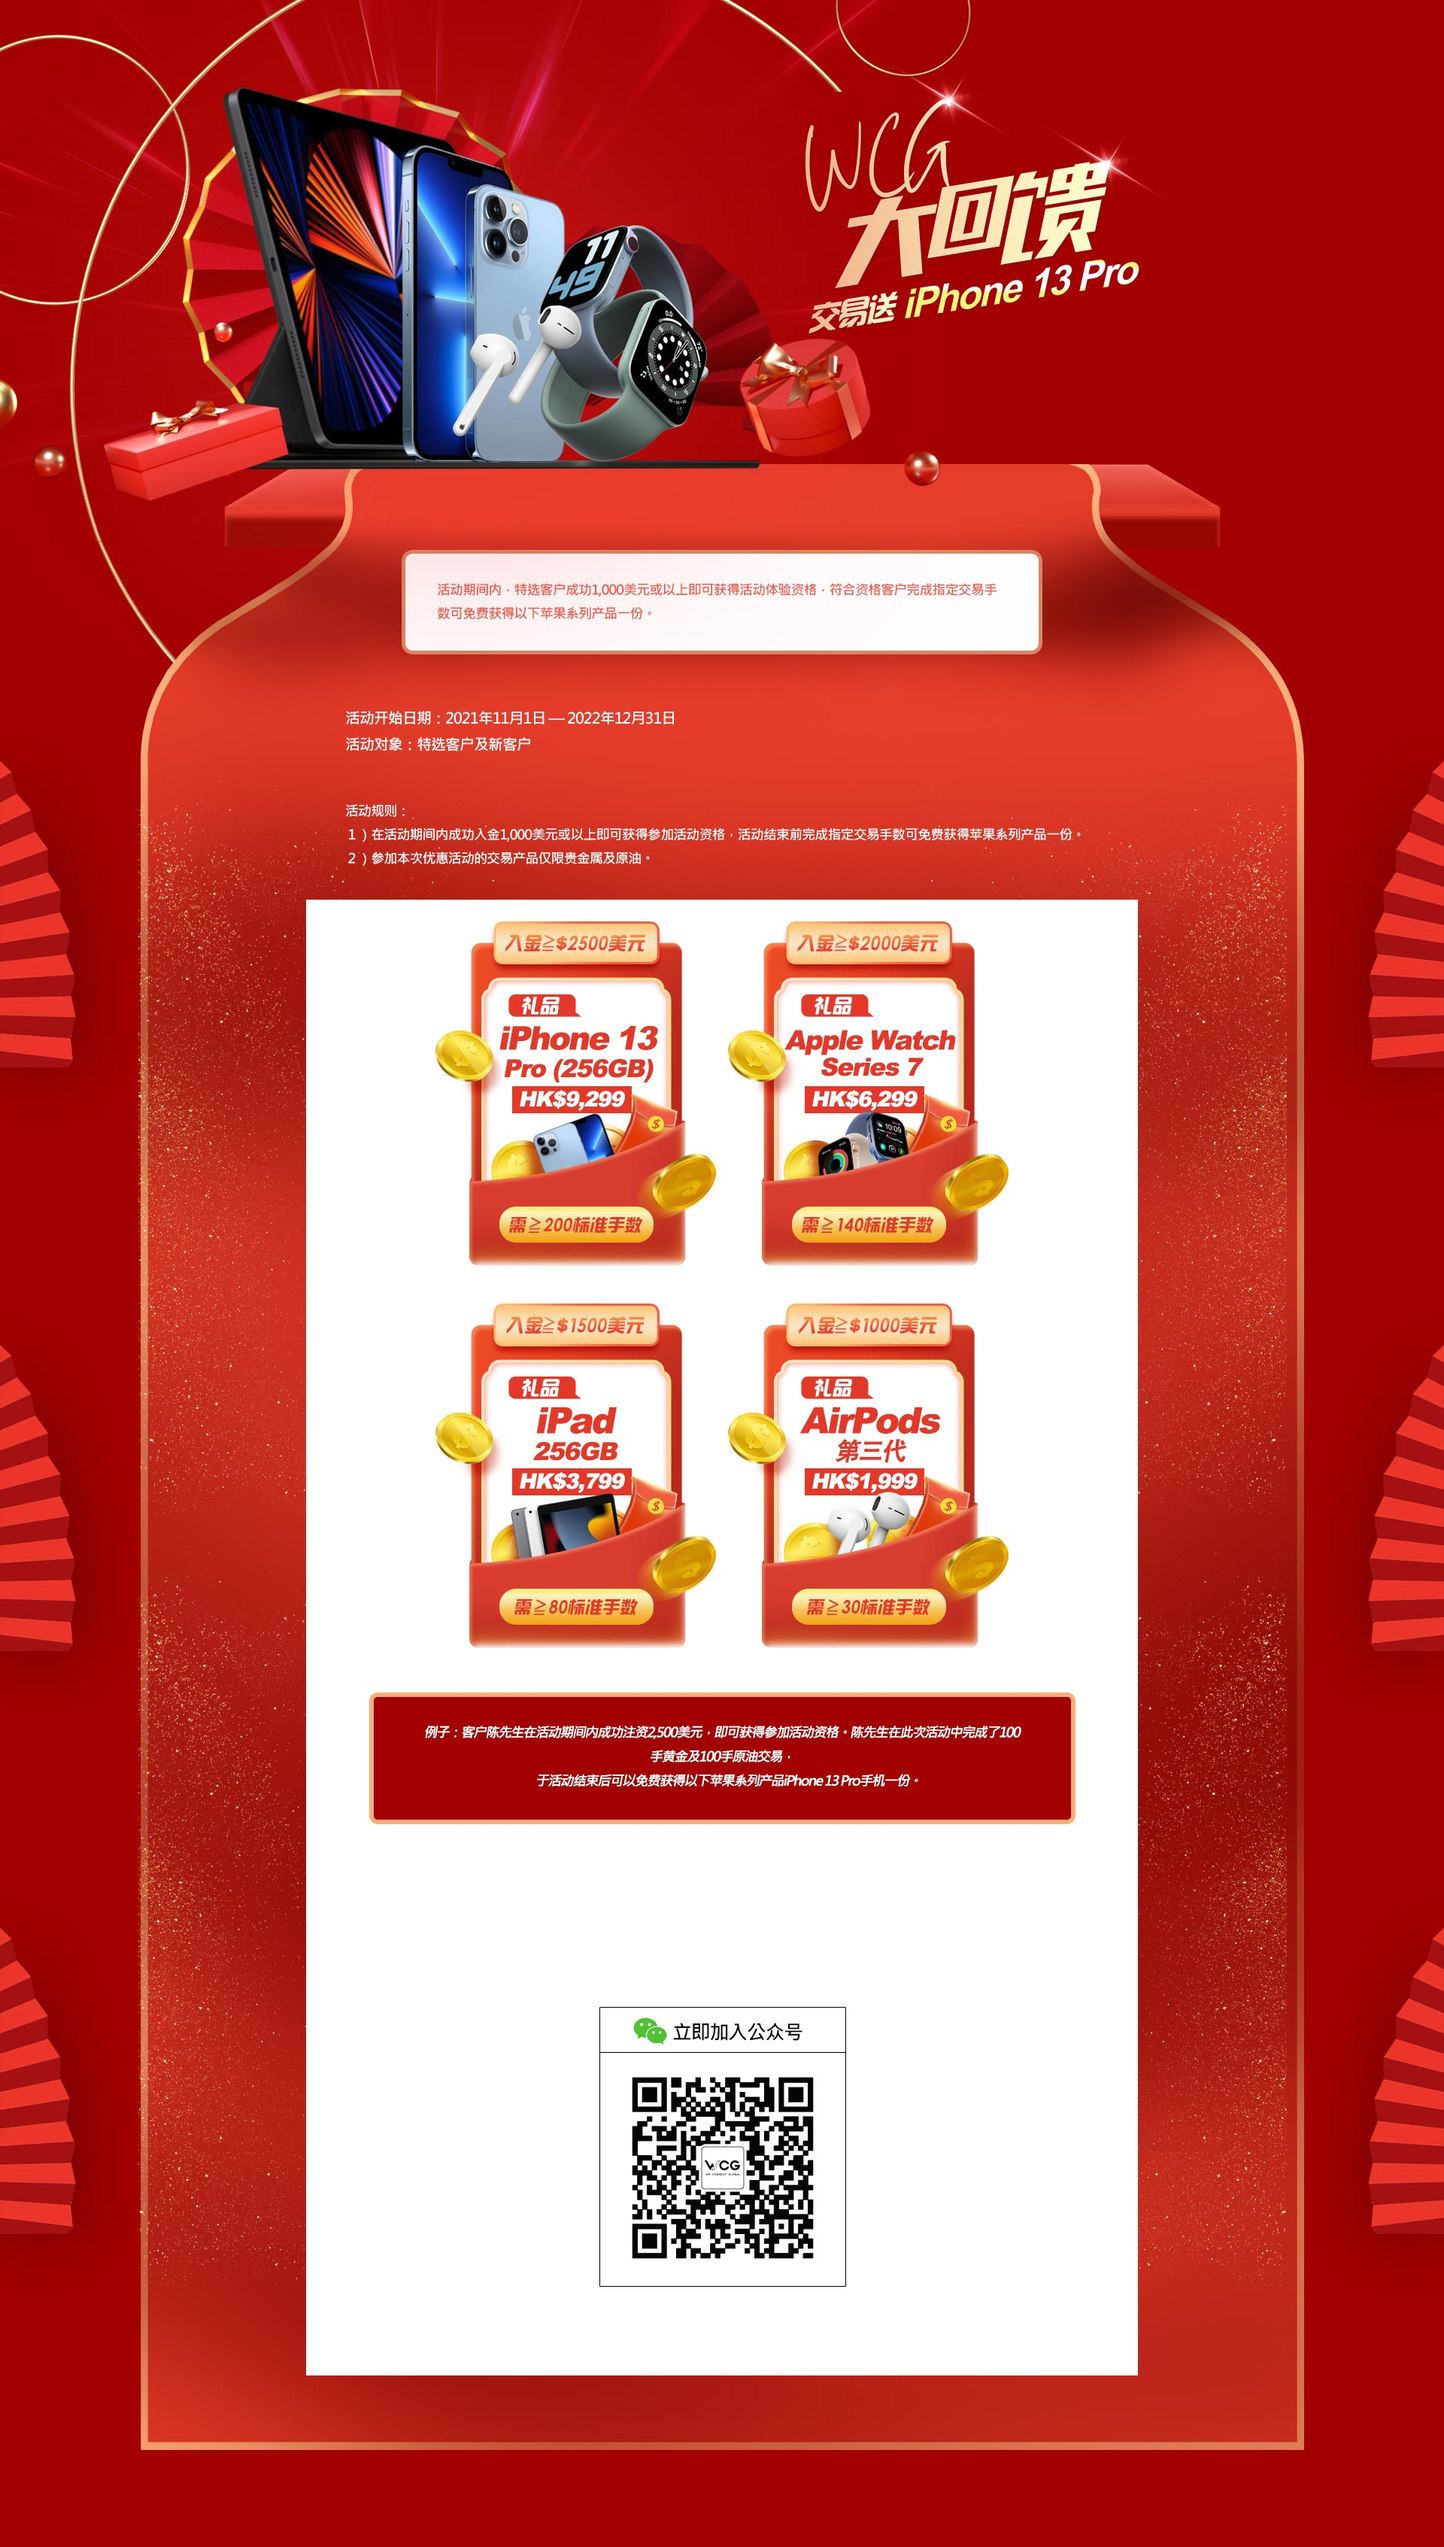
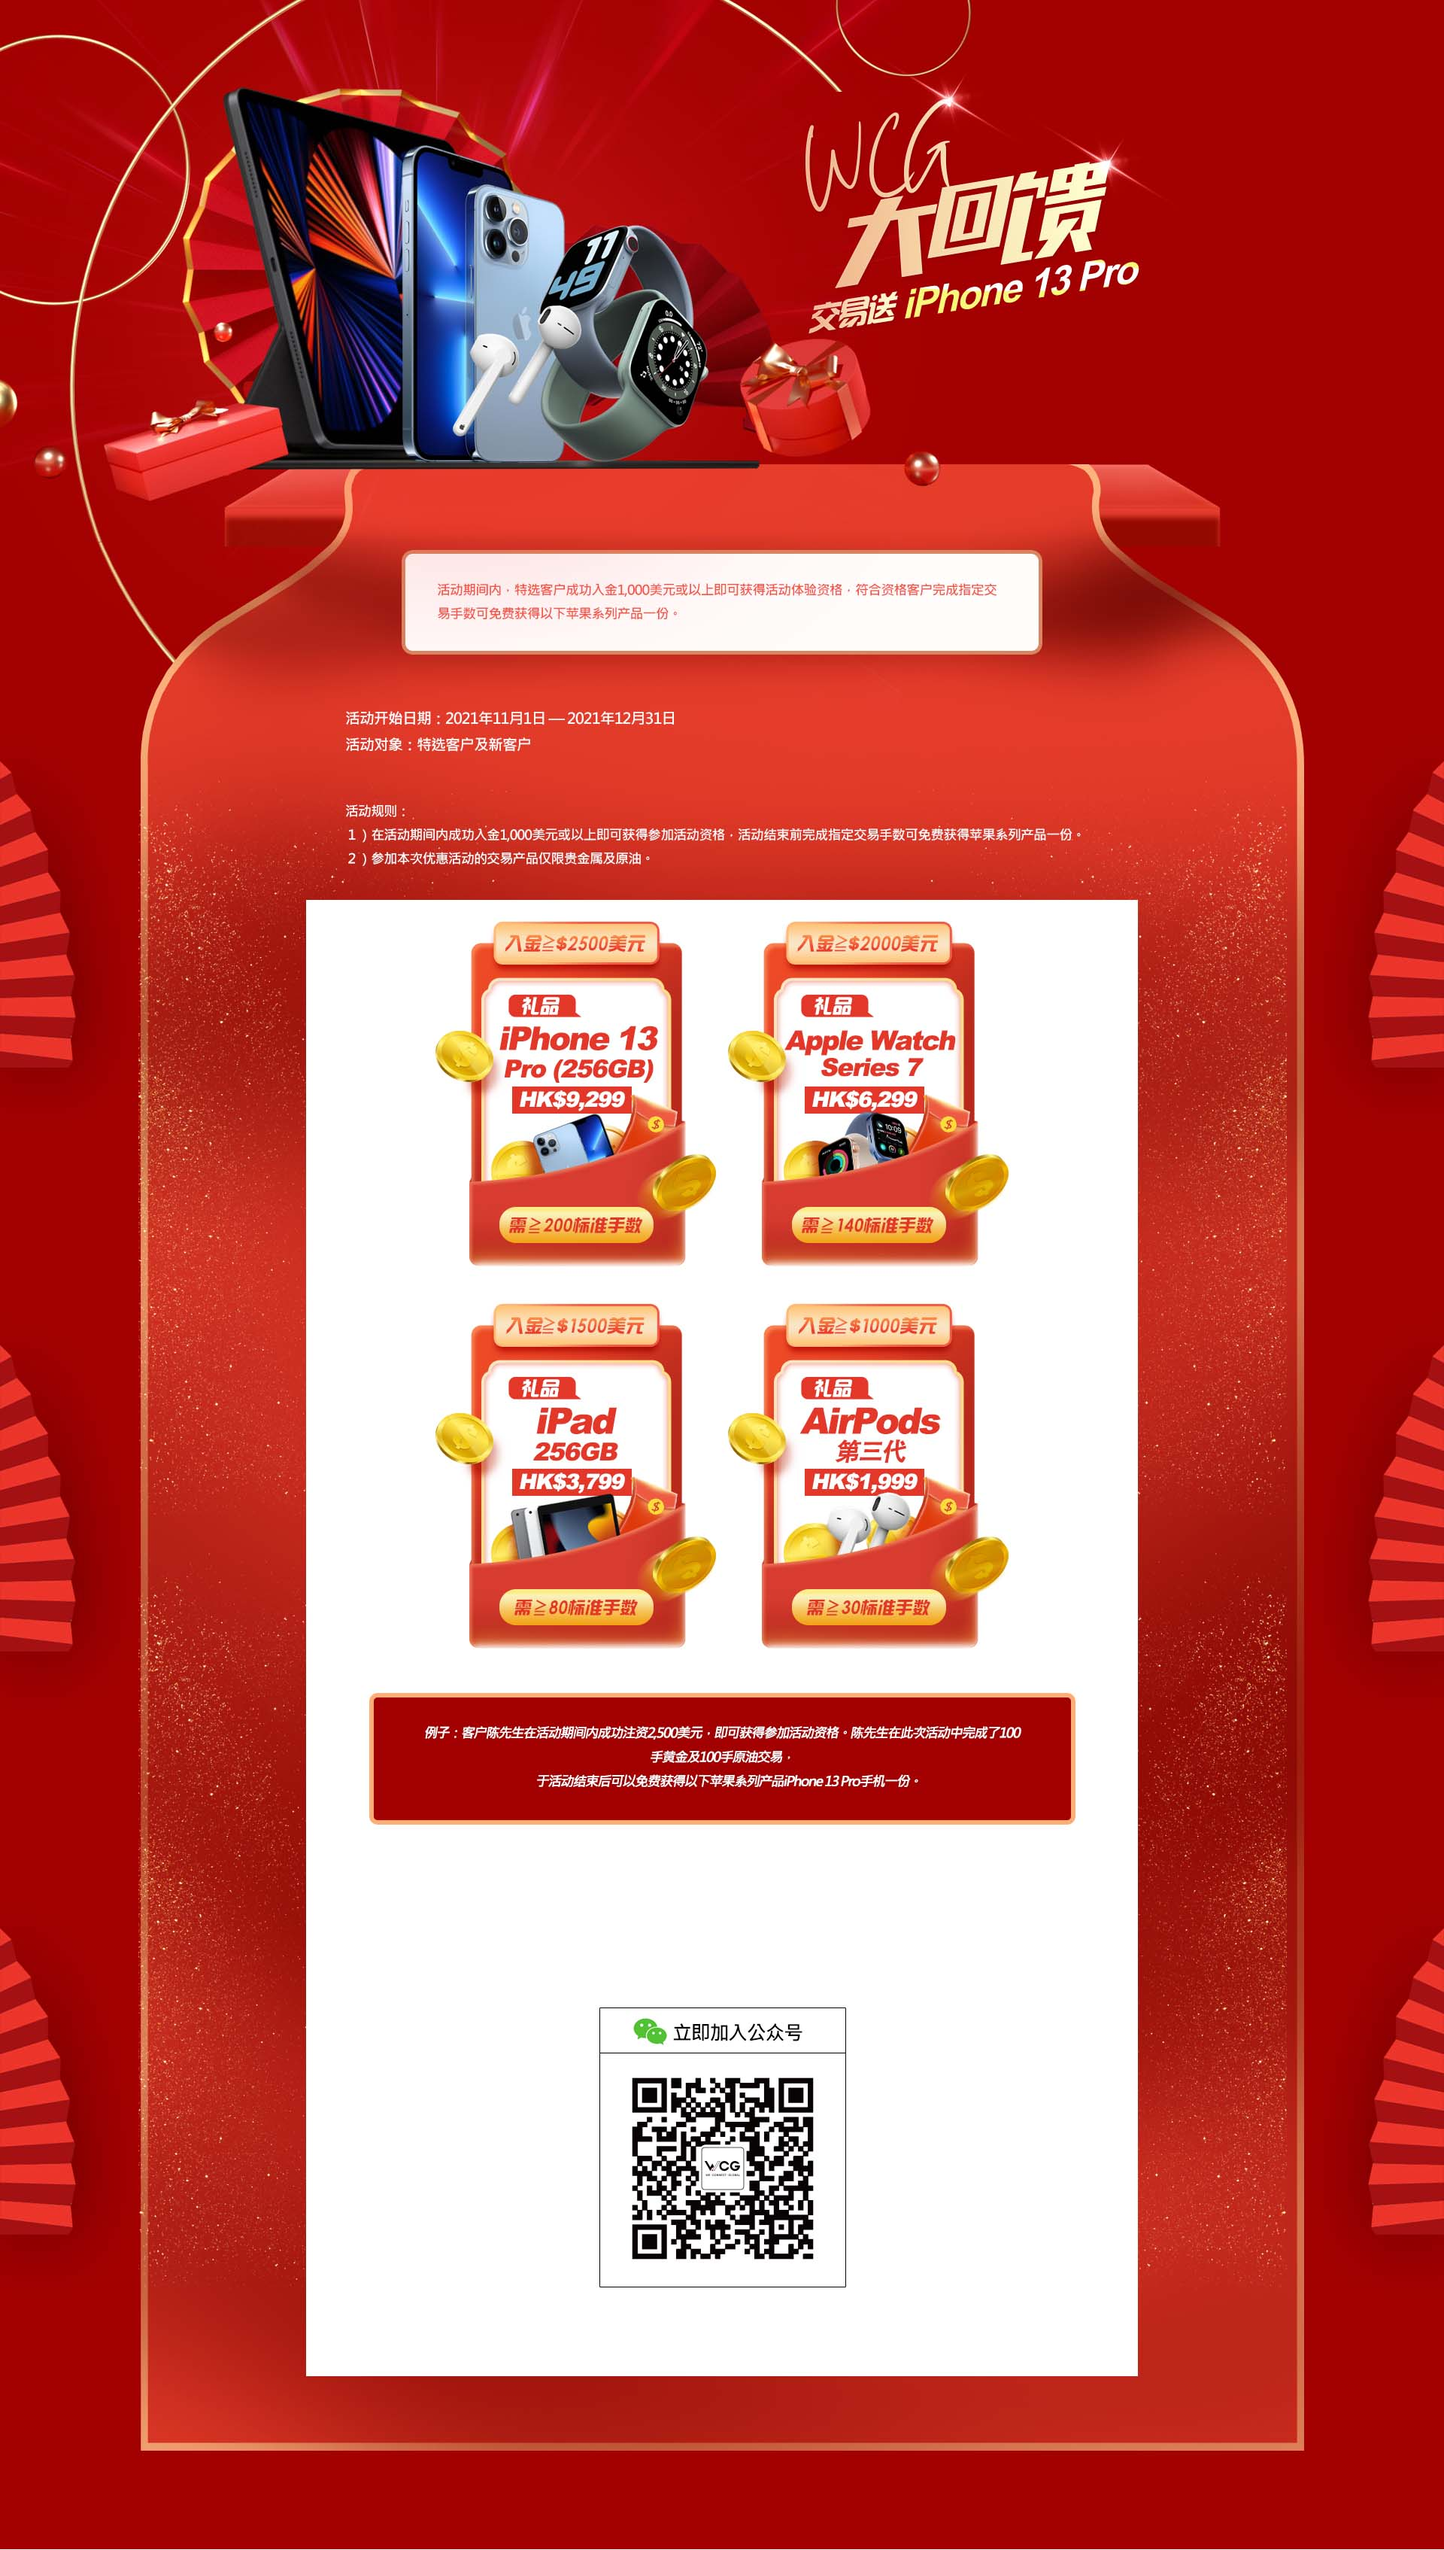
style(wcgi): modfy pic and wording

diff --git a/src/pages/activity/WCGI.tsx b/src/pages/activity/WCGI.tsx
@@ -107,7 +107,7 @@ const WCGI: React.FC<{}> = () => {
             fontSize={{ base: '10px', md: '18px' }}
             fontWeight="600"
           >
-            活动期间内，特选客户成功1,000美元或以上即可获得活动体验资格，符合资格客户完成指定交易手数可免费获得以下苹果系列产品一份。
+            活动期间内，特选客户成功入金1,000美元或以上即可获得活动体验资格，符合资格客户完成指定交易手数可免费获得以下苹果系列产品一份。
           </Box>
 
           <Box
@@ -123,8 +123,8 @@ const WCGI: React.FC<{}> = () => {
             fontSize={{ base: '10px', md: '18px' }}
             fontWeight="600"
           >
-            <Text>活动开始日期：2021年11月1日 — 2022年12月31日</Text>
-            <Text>活动对象：特选客户及新客户 </Text>
+            <Text>活动开始日期：2021年11月1日 — 2021年12月31日</Text>
+            <Text>活动对象：特选客户及新客户</Text>
           </Box>
 
           <Box my={20}>
@@ -316,7 +316,7 @@ const WCGI: React.FC<{}> = () => {
           <Text>2. 参加本次优惠活动的交易产品仅限贵金属及原油。</Text>
           <Text>
             3.
-            合资格交易指平台时间2021年11月1日00:00至2021年12月30日23:59内开仓及平仓的交易。交易手数以翌日系统结算为准
+            合资格交易指平台时间2021年11月1日00:00至2021年12月31日23:59内开仓及平仓的交易。交易手数以翌日系统结算为准
           </Text>
           <Text>
             4. 只计算活动期间内的开仓和平仓手数, 活动期间以外的交易手数不予计算
@@ -326,7 +326,7 @@ const WCGI: React.FC<{}> = () => {
           </Text>
           <Text>
             6.
-            活动有效期:客户账户获得参加活动资格开始计算至活动结束（2022年1月28日）。
+            活动有效期:客户账户获得参加活动资格开始计算至活动结束（2021年12月31日）。
           </Text>
           <Text>
             7.
